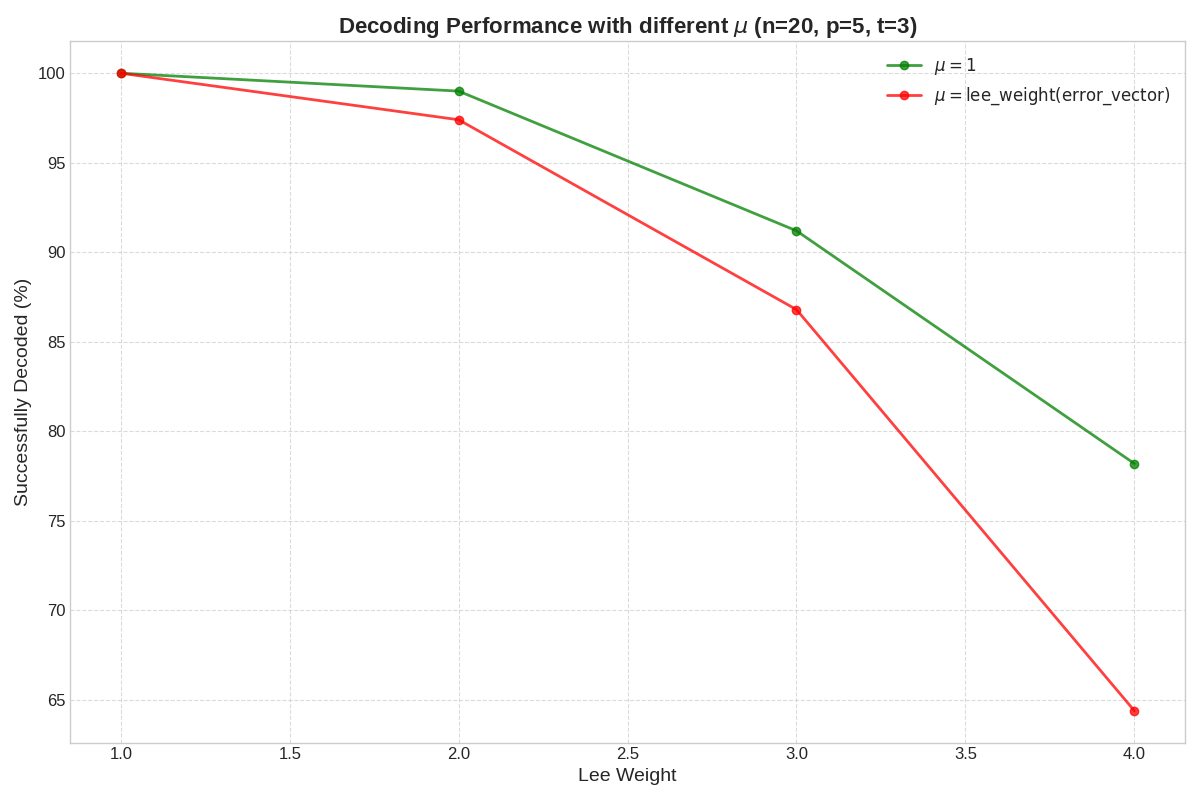
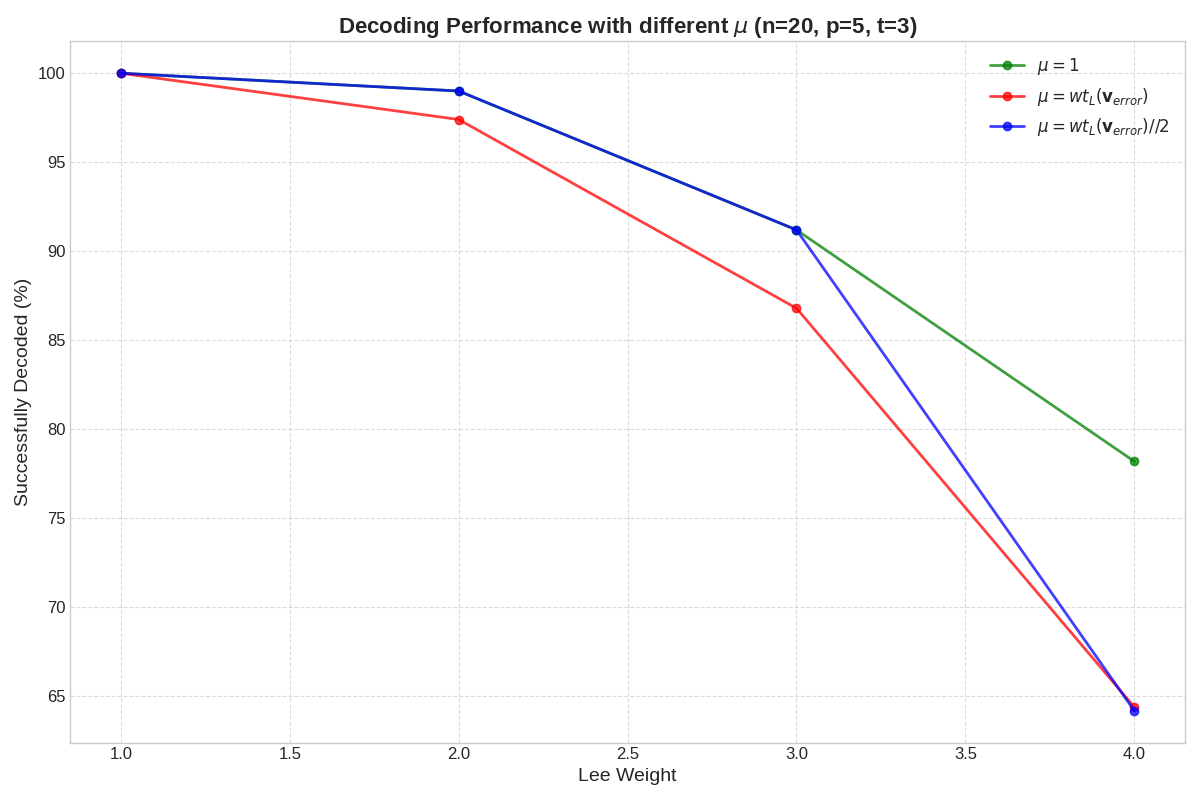
Add changes

diff --git a/4Decoding_lee_t_half.py b/4Decoding_lee_t_half.py
@@ -145,7 +145,12 @@ def solve(G, target_vector,q, error_vector, metric, custom_t=None):
     n = len(target_vector)
     lattice = transform_to_lattice(G,n,q)
 
-    t = lee_weight(error_vector, q) // 2
+    if custom_t == "t1":
+        t = 1
+    elif custom_t == "tt":
+        t = lee_weight(error_vector, q)
+    elif custom_t == "thalf":
+        t = lee_weight(error_vector, q) // 2
 
     if t < 1:
         t = 1
@@ -281,9 +286,14 @@ def do_simulation(q, n, k,  sub_dir):
     random_message = vector(GF(q), [random.randint(0, q-1) for _ in range(k)])
     codeword = random_message * G
 
+    good_vectors_t1, failed_vectors_t1 = simulate_code(G, codeword, q=q, error_vectors=[sublist[:] for sublist in error_vectors_lee], metric="lee", custom_t="t1", verbose=True)
+    write_to_csv(sub_dir, n, k, q, good_vectors_t1, failed_vectors_t1, t_lee, metric="lee", appendix="t1")
 
-    good_vectors_t1, failed_vectors_t1 = simulate_code(G, codeword, q=q, error_vectors=[sublist[:] for sublist in error_vectors_lee], metric="lee", custom_t=None, verbose=True)
-    write_to_csv(sub_dir, n, k, q, good_vectors_t1, failed_vectors_t1, t_lee, metric="lee", appendix="thalf")
+    good_vectors_lee, failed_vectors_lee = simulate_code(G, codeword, q=q, error_vectors=[sublist[:] for sublist in error_vectors_lee], metric="lee", custom_t="tt", verbose=True)
+    write_to_csv(sub_dir, n, k, q, good_vectors_lee, failed_vectors_lee, t_lee, metric="lee", appendix="tt")
+
+    good_vectors_thalf, failed_vectors_thalf = simulate_code(G, codeword, q=q, error_vectors=[sublist[:] for sublist in error_vectors_lee], metric="lee", custom_t="thalf", verbose=True)
+    write_to_csv(sub_dir, n, k, q, good_vectors_thalf, failed_vectors_thalf, t_lee, metric="lee", appendix="thalf")
 
 
     
@@ -298,4 +308,4 @@ for i in range(len(n)):
     for prime in primes:
         current += 1
         print(f"Simulation: {current} / {len(n) * len(primes)}", flush=True)
-        do_simulation(prime, n[i], k[i], "decoding_thalf")
+        do_simulation(prime, n[i], k[i], "decoding_tall")

diff --git a/4t1vstt_plot_new.py b/4t1vstt_plot_new.py
@@ -103,10 +103,10 @@ def plot_withMinus_vs_standardLee(subfolder_path):
                 label="$\mu = 1$", color='green', alpha=0.75, linewidth=2, marker='o', markersize=6)
 
         plt.plot(list(tt.keys()), list(tt.values()), 
-                label="$\mu = \mathrm{lee\_weight(error\_vector)}$", color='red', alpha=0.75, linewidth=2, marker='o', markersize=6)
+                label="$\mu = wt_L(\mathbf{v}_{error})$", color='red', alpha=0.75, linewidth=2, marker='o', markersize=6)
 
         plt.plot(list(thalf.keys()), list(thalf.values()),
-                label="$\mu = \mathrm{lee\_weight(error\_vector)}/2$", color='blue', alpha=0.75, linewidth=2, marker='o', markersize=6)
+                label="$\mu = wt_L(\mathbf{v}_{error})//2$", color='blue', alpha=0.75, linewidth=2, marker='o', markersize=6)
 
         plt.xlabel('Lee Weight', fontsize=14)
         plt.ylabel('Successfully Decoded (%)', fontsize=14)
@@ -134,7 +134,7 @@ def main(subfolder_path):
 
 if __name__ == "__main__":
     if len(sys.argv) != 2:
-        print("Usage: python3 4t1vstt_plot.py ./data/decoding_tall/")
+        print("Usage: python3 4t1vstt_plot_new.py ./data/decoding_tall/")
         sys.exit(1)
 
     subfolder_path = sys.argv[1]

diff --git a/test_min_length.py b/test_min_length.py
@@ -28,3 +28,16 @@ for i in range(len(n_list)):
     n = n_list[i]
     k = k_list[i]
     run(n,k,q)
+
+
+
+
+if(abs(value) != 0):
+    a_sum = np.sum(A)
+    A[row,column] = abs(value)
+    a_sum_new = np.sum(A)
+    tolerance = 1e-15  
+    if abs(a_sum_new - a_sum) < tolerance:
+        failed_activities.append(abs(value))
+        print("no change", abs(value))
+        len_success.append((row, column))
